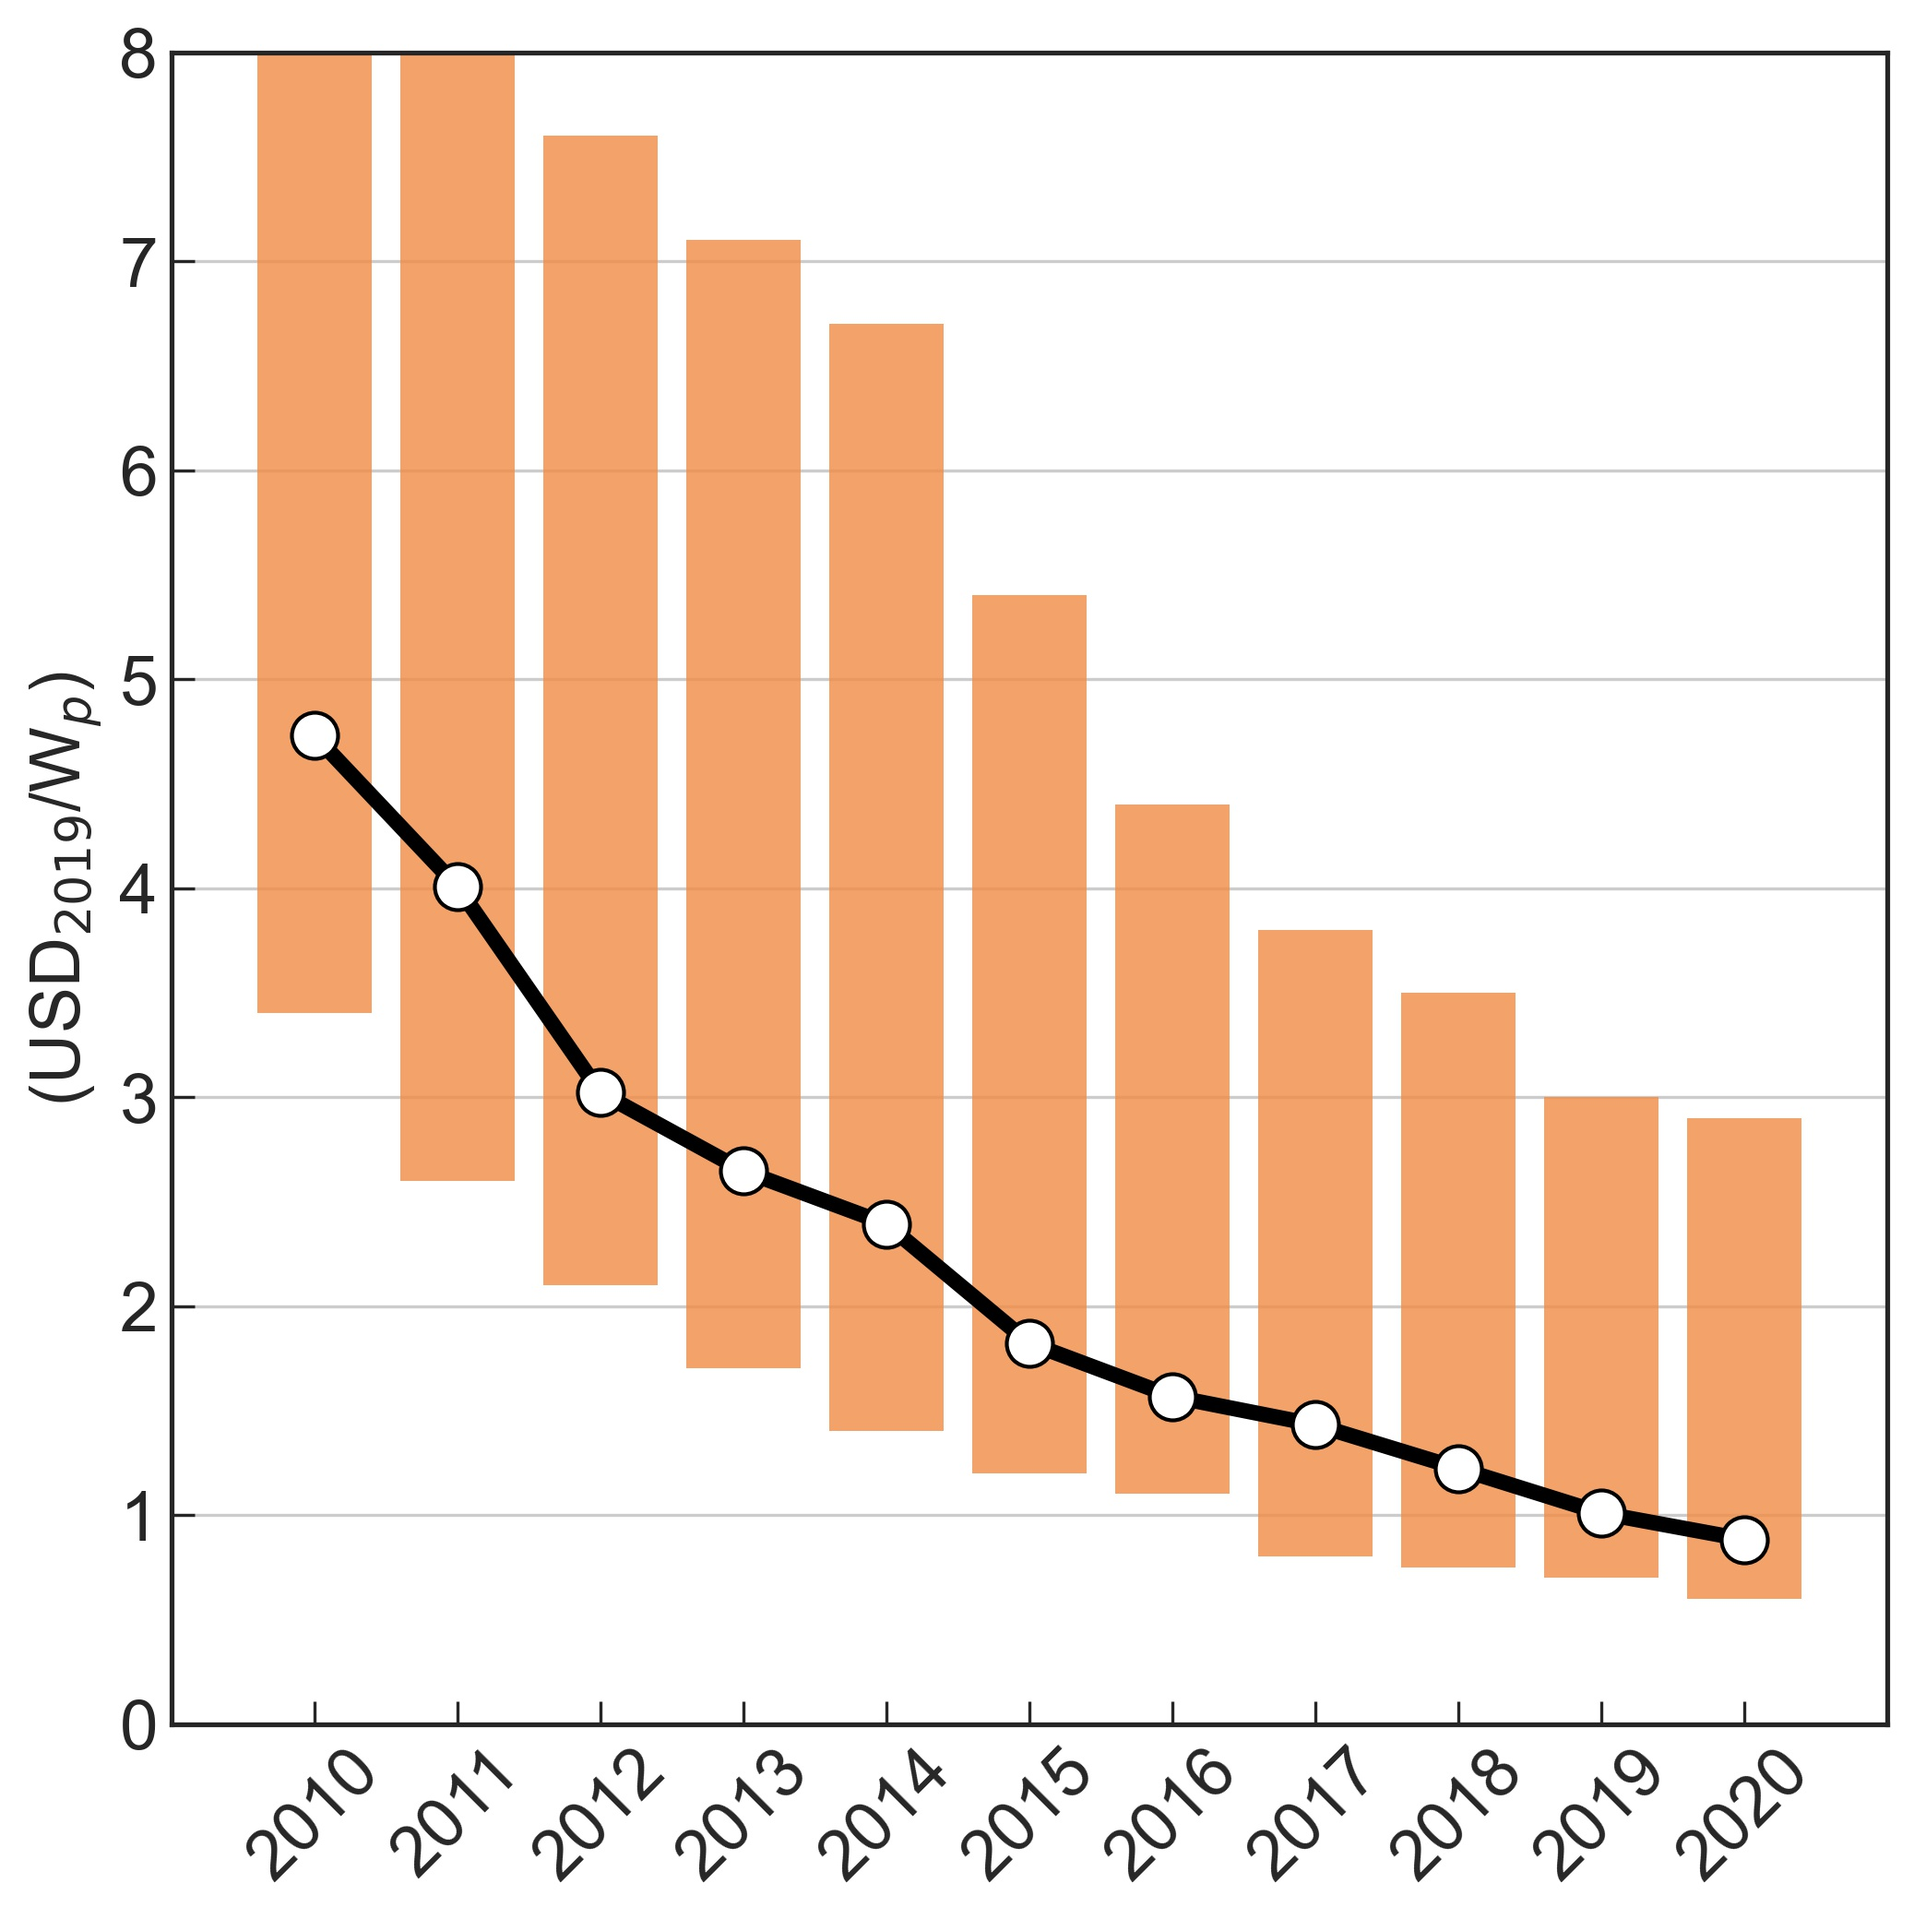
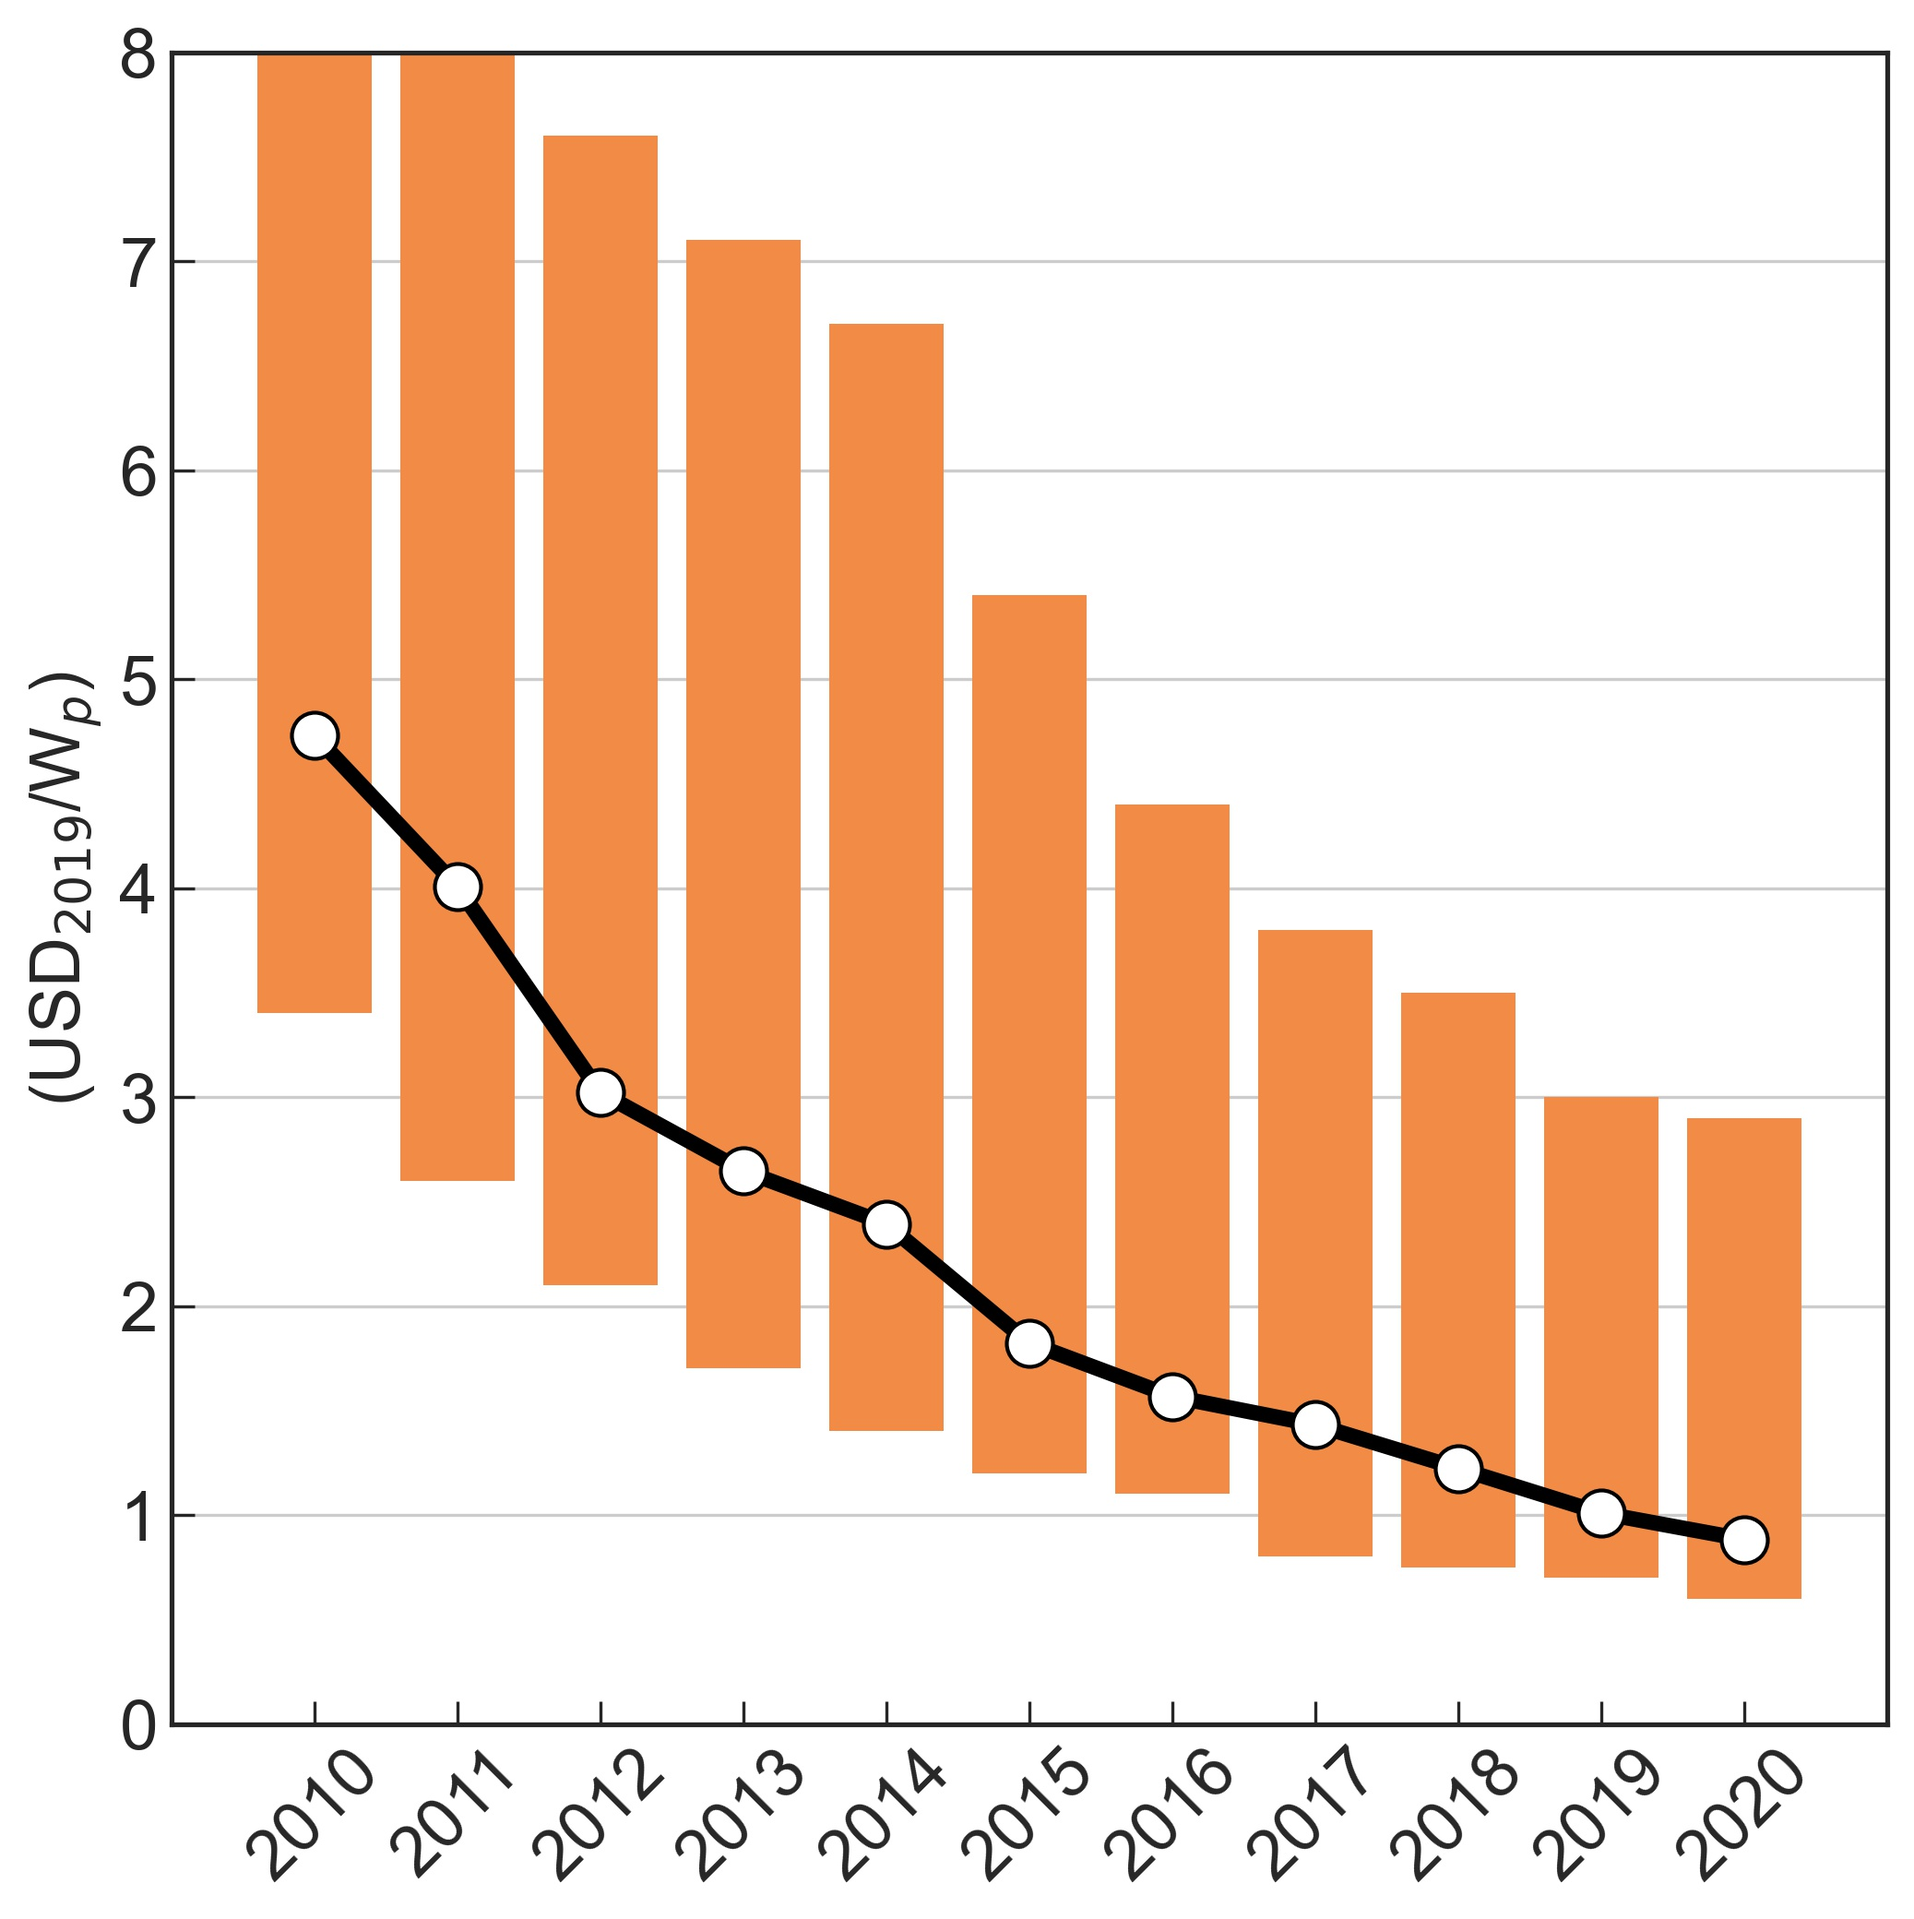
Add LCOE and rooftop costs figures, updated other figures chapter 13

Changed region(s): [[0.1234, 0.0312, 0.9561, 0.8438]]

diff --git a/Figures/Chapter_13/LCOE_different_technologies.py b/Figures/Chapter_13/LCOE_different_technologies.py
@@ -21,44 +21,52 @@ gs1.update(wspace=0.4, hspace=0.2)
 colors={'Hydro': colors['color1'],
         'Nuclear': colors['color2'],
         'Wind': colors['color3'], 
-        'Solar': colors['color5'], 
-        'Solar PV': colors['color5'], 
+        'CSP-Central tower': colors['color4'],
+        'Solar PV-rooftop': colors['color5'], 
+        'Solar PV-utility scale': colors['color5'], 
         'Coal':colors['color11'], 
         'Gas':colors['color13'],
         'Oil': colors['color12'], 
         'Biomass': colors['color14'], 
         'Geothermal': colors['color15'] }
 
-techs=['Coal',
-       'Oil',
+techs=[
+       'Coal',
+       # 'Oil',
        'Gas',
-       'Biomass',
+       # 'Biomass',
        'Nuclear',
-       'Hydro',
+       # 'Hydro',
        'Geothermal',
        'Wind',
-       'Solar PV']
+       'CSP-Central tower',
+       'Solar PV-utility scale',
+       'Solar PV-rooftop']
 
-GHG={'Solar PV':43, 
-     'Wind': 13,
-     'Biomass':52,
-     'Geothermal':27,
-     'Hydro':21,
-     'Nuclear':13,
-     'Gas':486,
-     'Oil':840,
-     'Coal':1001}
+LCOE={'Solar PV-rooftop':(147,221), 
+      'Solar PV-utility scale':(28,41), 
+      'CSP-Central tower':(126,156),
+      'Wind': (26,50),
+      #'Biomass':,
+      'Geothermal':(56,93),
+      #'Hydro':,
+      'Nuclear':(131,204),
+      'Gas':(151,196),
+      #'Oil':,
+      'Coal':(65,152)}
 
 ax1 = plt.subplot(gs1[0,0])
 for i,tech in enumerate(techs):
-    ax1.barh(i,GHG[tech], 
+    ax1.barh(i,LCOE[tech][1]-LCOE[tech][0],
+             left=LCOE[tech][0],
              height=0.5,
-            color=colors[tech])
-    ax1.text(GHG[tech], i-0.15, GHG[tech], fontsize=16)
-ax1.set_xlim(0,1070)
-ax1.set_xlabel('Lifecycle Greenhouse Gas Emissions (g CO$_2$/kWh)')
+             color=colors[tech])
+    ax1.text(LCOE[tech][1]+1, i-0.15, LCOE[tech][1], fontsize=16)
+    ax1.text(LCOE[tech][0]-10, i-0.15, LCOE[tech][0], fontsize=16)
+ax1.set_xlim(0,250)
+ax1.set_xlabel('Levelized Cost of Energy (USD/MWh)')
 ax1.set_yticks(range(0,len(techs)))
 ax1.set_yticklabels(techs)
 ax1.grid(color='grey', linestyle='--', axis='x', which='both')
 
-plt.savefig('figures/GHG_technologies.jpg', dpi=300, bbox_inches='tight')  
+plt.savefig('figures/LCOE_technologies.jpg', dpi=300, bbox_inches='tight')  

diff --git a/Figures/Chapter_13/economic_evaluation.py b/Figures/Chapter_13/economic_evaluation.py
@@ -41,7 +41,7 @@ data.loc[:, 'Revenues'] = annual_electricity_generation*self_consumption_ratio*e
 data['Cash flow'] = data['Revenues'] - data['Expenses']
 
 for i in data.index:
-    data.loc[i, 'Discounted cash flow'] = data.loc[i, 'Cash flow']/(1+discount_rate)**i
+    data.loc[i, 'Discounted cash flow'] = data.loc[i, 'Cash flow']/(1+discount_rate)**(i+1)
     if i==0:
         data.loc[i, 'Cumulative discounted cash flow'] = data.loc[i, 'Discounted cash flow']
     else:
@@ -65,11 +65,12 @@ ax1.annotate('Revenues \n (EUR)', [-5.5, 0], fontsize=22,
              color=colors['color8'], rotation=90, annotation_clip=False)
 ax1.set_ylim([-3000, 500])
 ax1.set_xlim([-0.5, 25.5])
-ax1.set_xticks(np.arange(1,lifetime+1,2))
+ax1.set_xticks(np.arange(1,lifetime-1,2))
+ax1.set_xticklabels(np.arange(2,lifetime,2))
 ax2 = ax1.inset_axes([0.35, 0.15, 0.6, 0.35])
 ax2.plot(data.index, data['Cumulative discounted cash flow'], color='gray', linewidth=3, alpha=0.7)
 ax2.set_xticks(np.arange(1,lifetime+1,2))
-ax2.set_ylabel('Net Present Value')
+ax2.set_ylabel('Net Present Value (EUR)')
 ax2.set_ylim([-2500, 2500])
 ax2.set_xlim([-0.5, 25.5])
 ax2.spines['right'].set_color('none')

diff --git a/Figures/Chapter_13/cost_rooftop.py b/Figures/Chapter_13/cost_rooftop.py
@@ -1,0 +1,37 @@
+# -*- coding: utf-8 -*-
+"""
+@author: Marta
+"""
+
+import pandas as pd
+import matplotlib.pyplot as plt
+import matplotlib.gridspec as gridspec
+#import default figure format for the book
+plt.style.use(['seaborn-ticks','../pv-textbook.mplstyle'])
+
+#import default color scheme for the book
+import yaml
+with open('../colors.yaml') as file:
+    colors = yaml.load(file, Loader=yaml.FullLoader)
+    
+
+data=pd.read_csv('data/cost_rooftop.csv', index_col=0, header=0)
+
+plt.figure(figsize=(12, 7))
+gs1 = gridspec.GridSpec(1, 1)
+gs1.update(wspace=0.4, hspace=0.2)
+ax1 = plt.subplot(gs1[0,0])
+
+ax1.bar(data.index, height=data['Modules'], label='PV modules', 
+        color=colors['color5'])
+ax1.bar(data.index, height=data['BOS'], bottom=data['Modules'], label='BOS',
+        color=colors['color1'])
+
+ax1.legend(fancybox=False, fontsize=18, loc='best', #(1.03,-0.04), 
+           facecolor='white', ncol=1, frameon=True)
+ax1.set_ylim(0,100)
+ax1.set_ylabel('Relative price (in % compared to 2006)')
+
+ax1.grid(color='grey', linestyle='--', axis='y', which='both')
+
+plt.savefig('figures/costs_rooftop.jpg', dpi=300, bbox_inches='tight')  

diff --git a/Figures/Chapter_13/cost_PV_plants.py b/Figures/Chapter_13/cost_PV_plants.py
@@ -32,7 +32,7 @@ ax1.set_ylabel('(USD$_{2019}$/W$_p$)')
 ax1.plot(years, mean, color='black', linewidth=4,
          marker='o', markerfacecolor='white',markersize=12)
 
-ax1.bar(years, max_value, bottom=min_value, color=color_1, alpha=0.8)
+ax1.bar(years, max_value, bottom=min_value, color=color_1, alpha=1)
 
 ax1.set_xlim(2009,2021)
 ax1.set_ylim(0,8)
